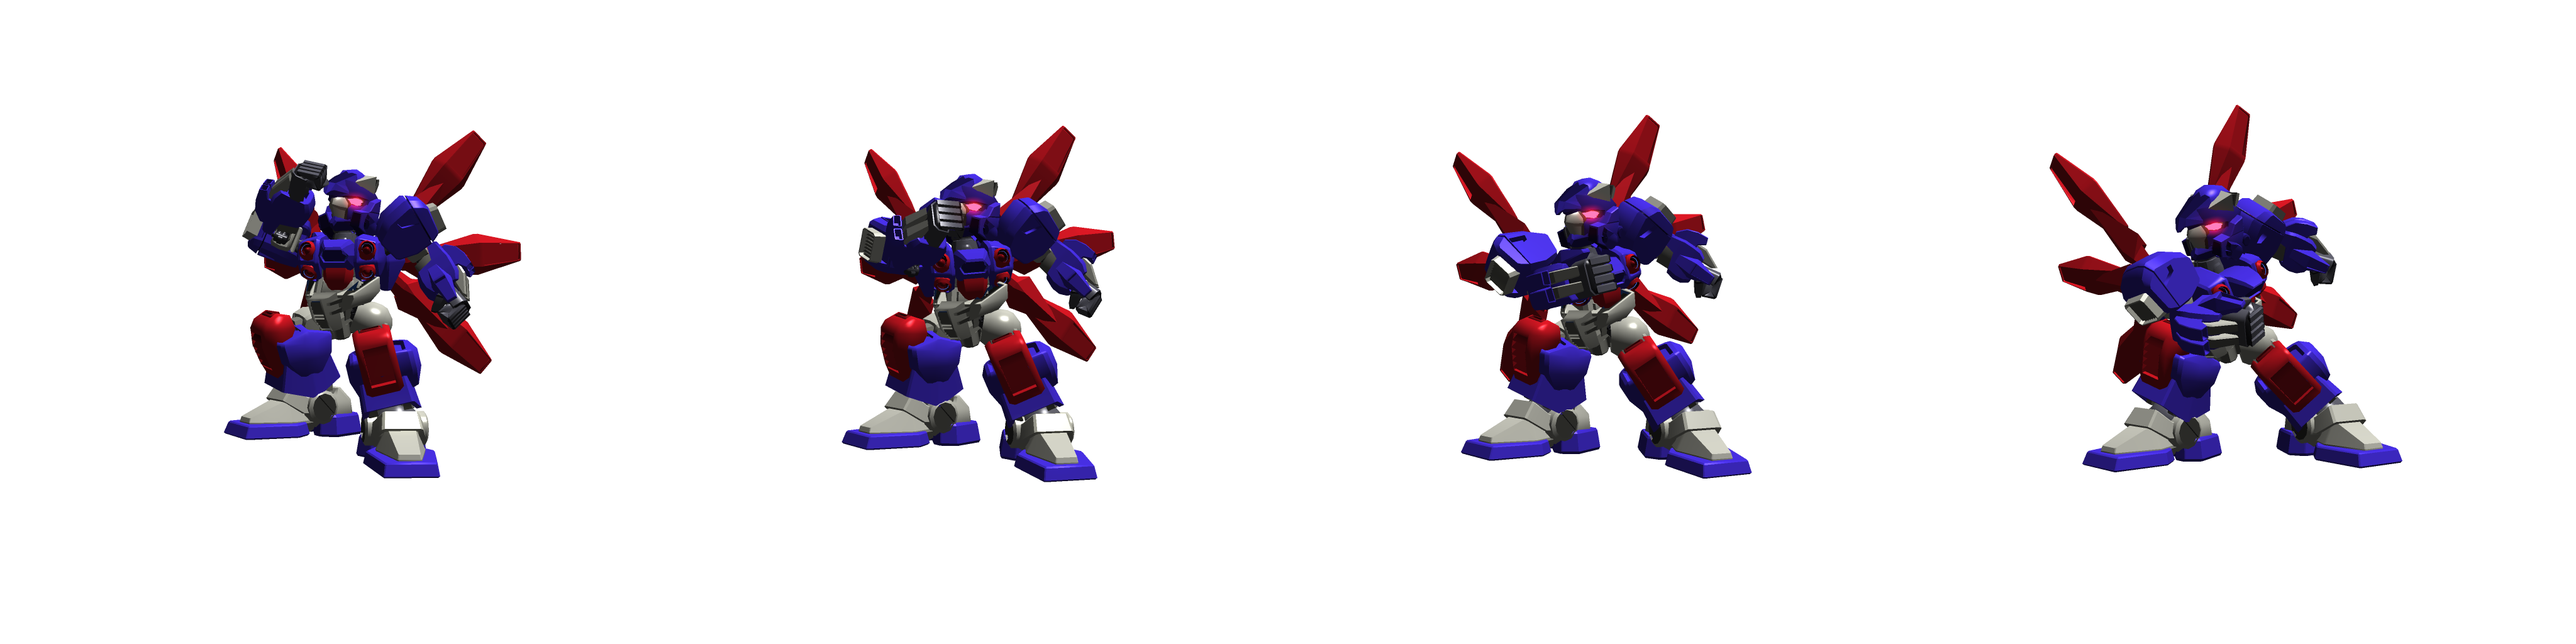
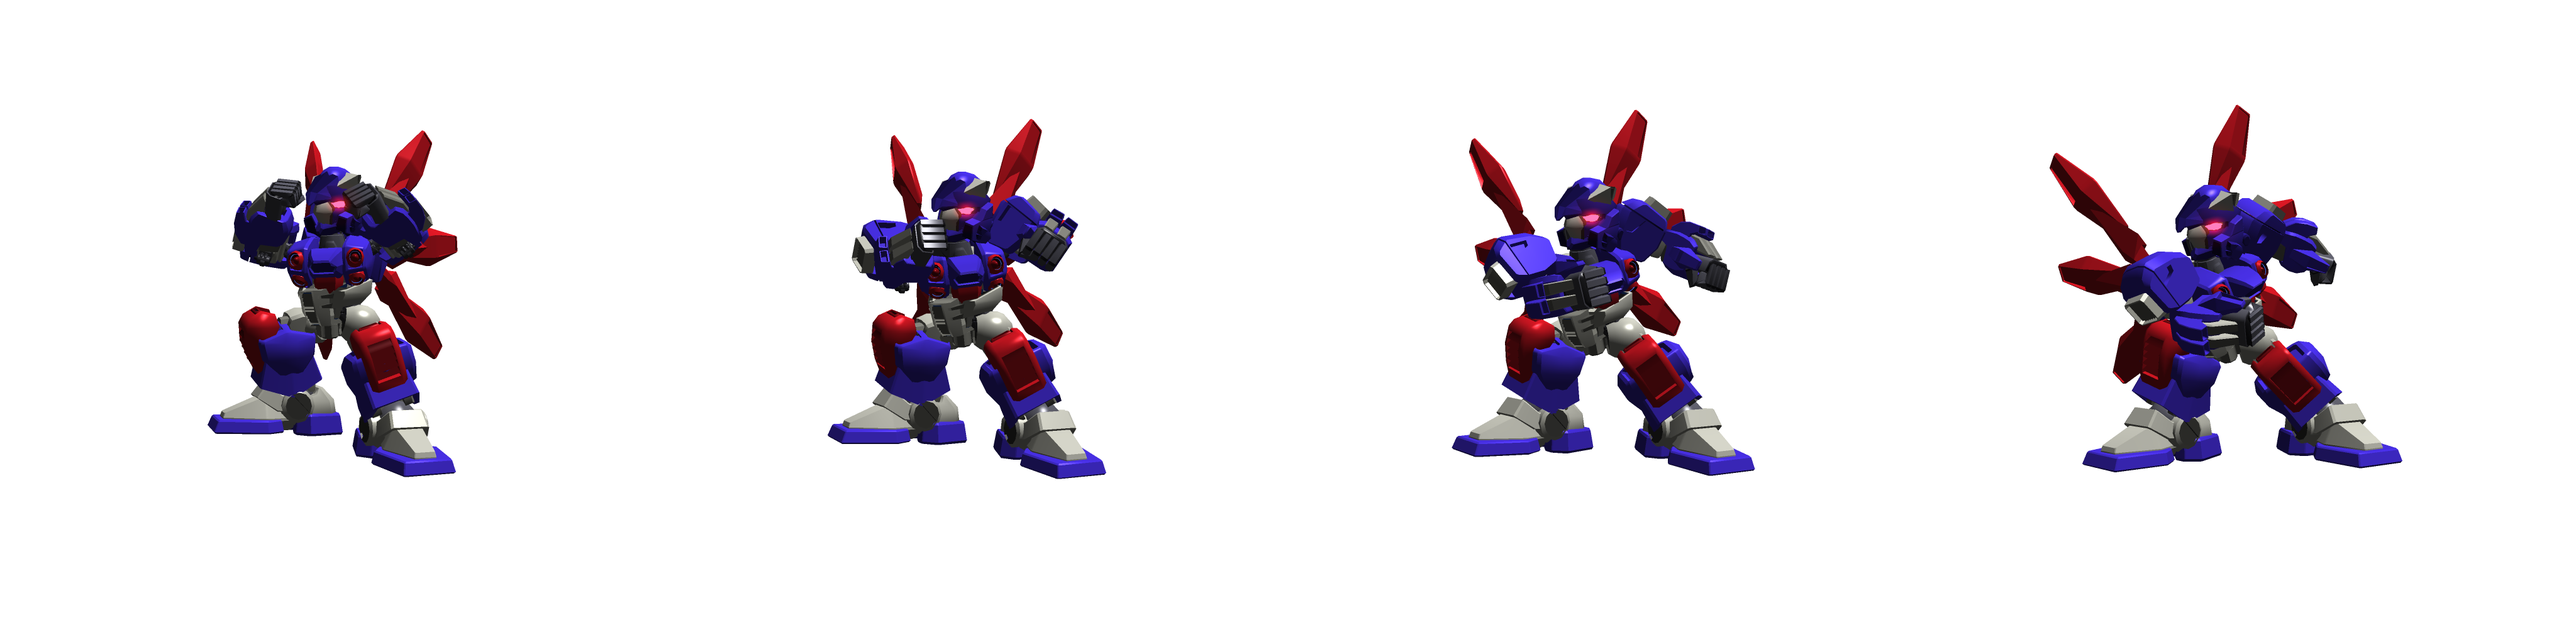
ダッシュモーションを調整した

Changed region(s): [[0.3125, 0.1875, 0.4375, 0.75], [0.0625, 0.1875, 0.2188, 0.75], [0.5625, 0.1562, 0.6875, 0.75]]

diff --git a/src/js/game-object/armdozer/wing-dozer/animation/dash.js b/src/js/game-object/armdozer/wing-dozer/animation/dash.js
@@ -18,10 +18,10 @@ export function dash(model: WingDozerModel): Animate {
     model.animation.frame = 0;
   })
     .chain(tween(model.animation, t => t.to({frame: 1}, 300)))
-    .chain(delay(300))
+    .chain(delay(100))
     .chain(process(() => {
       model.animation.type = 'DASH_DOWN';
       model.animation.frame = 0;
     }))
-    .chain(tween(model.animation, t => t.to({frame: 1}, 200)));
+    .chain(tween(model.animation, t => t.to({frame: 1}, 300)));
 }

diff --git a/src/js/game-object/armdozer/wing-dozer/animation/upper-to-stand.js b/src/js/game-object/armdozer/wing-dozer/animation/upper-to-stand.js
@@ -16,7 +16,7 @@ export function upperToStand(model: WingDozerModel): Animate {
     model.animation.type = 'UPPER_TO_STAND';
     model.animation.frame = 0;
   })
-    .chain(tween(model.animation, t => t.to({frame: 1}, 600)))
+    .chain(tween(model.animation, t => t.to({frame: 1}, 400)))
     .chain(process(() => {
       model.animation.type = 'STAND';
       model.animation.frame = 0;
